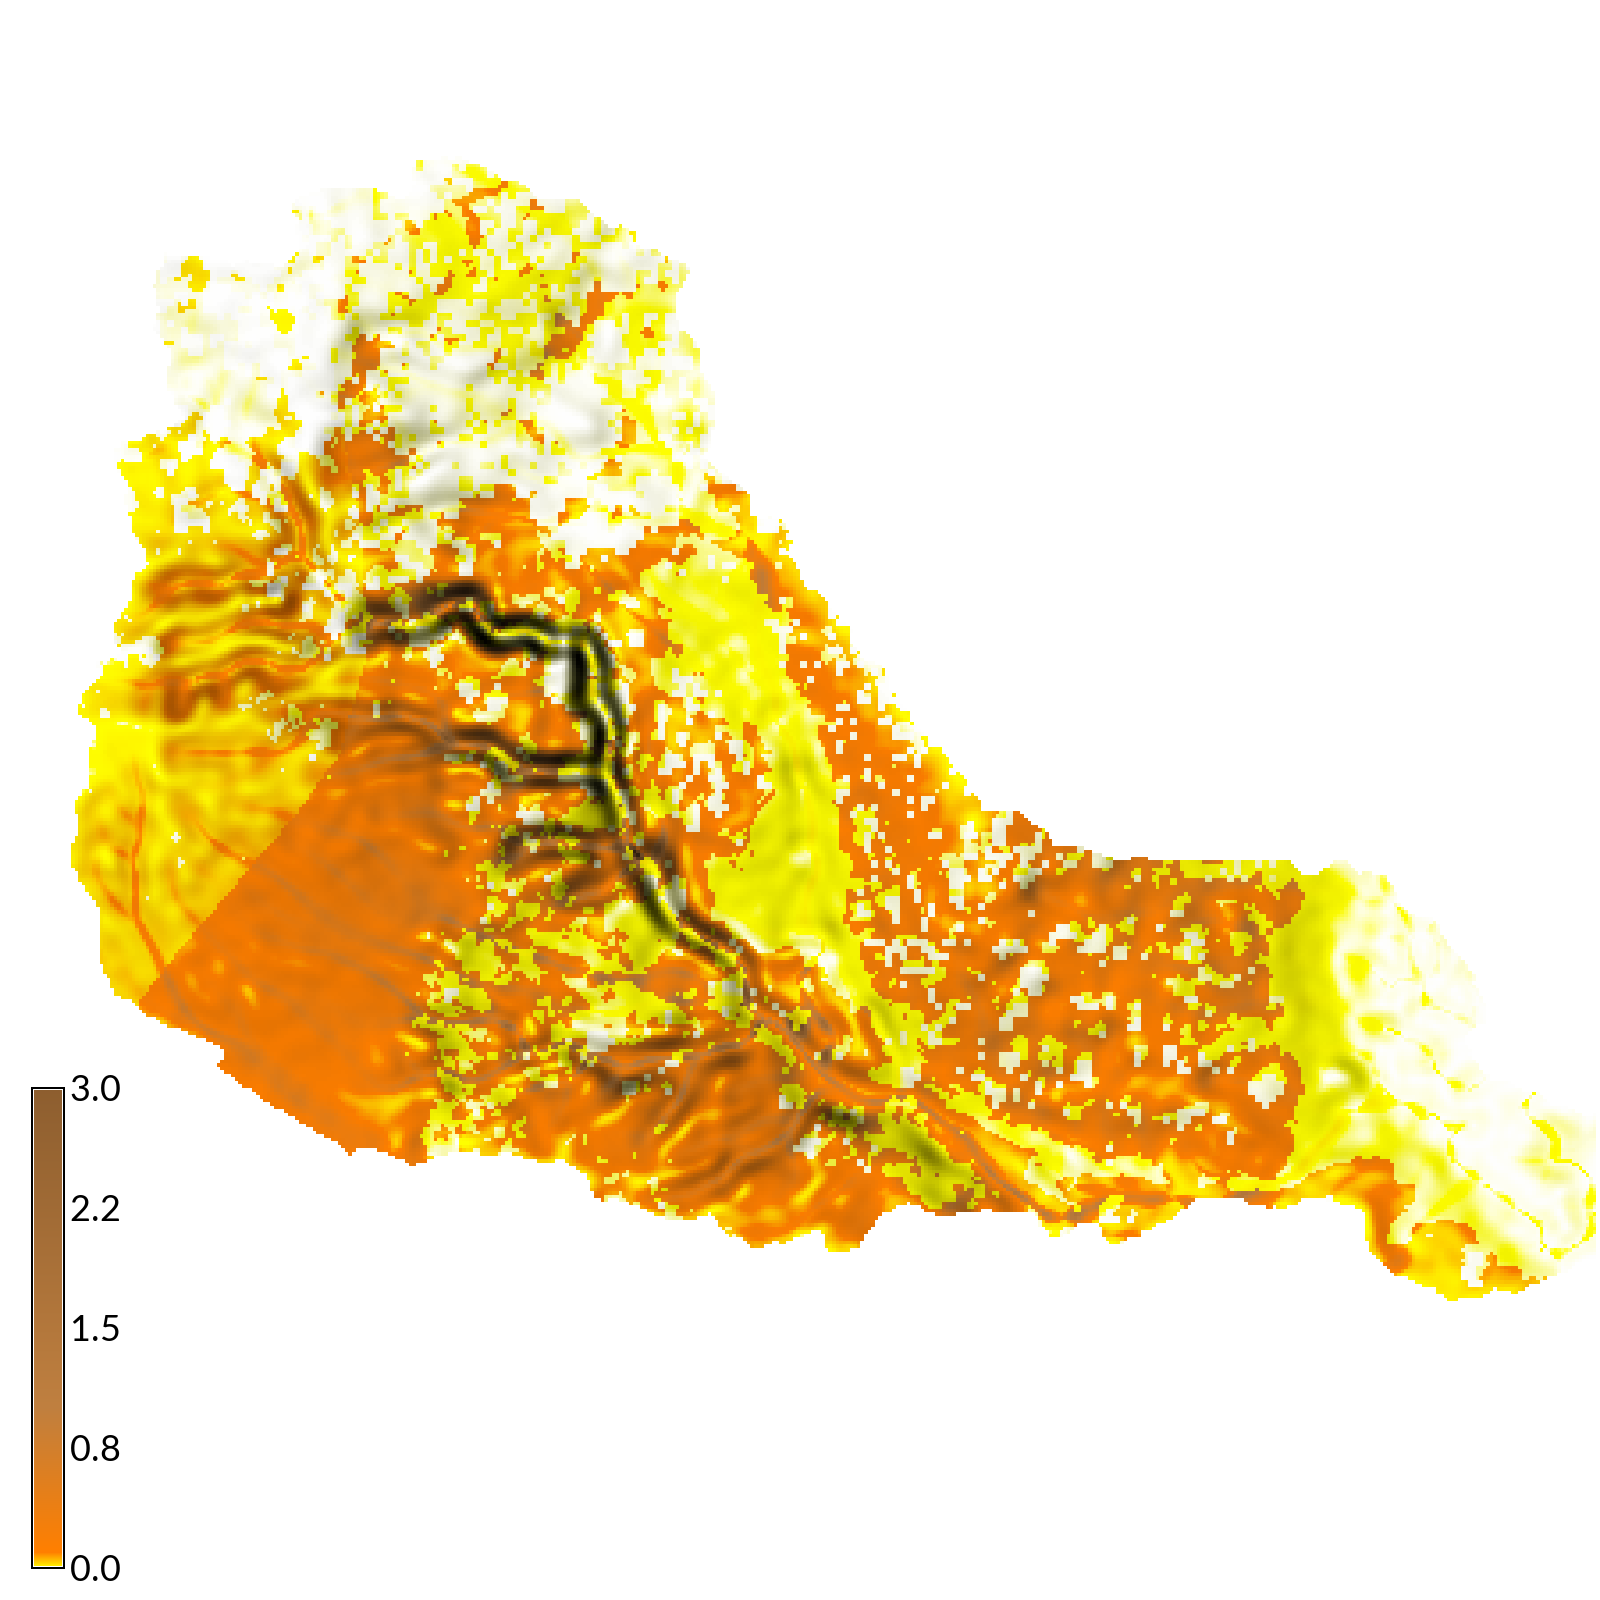
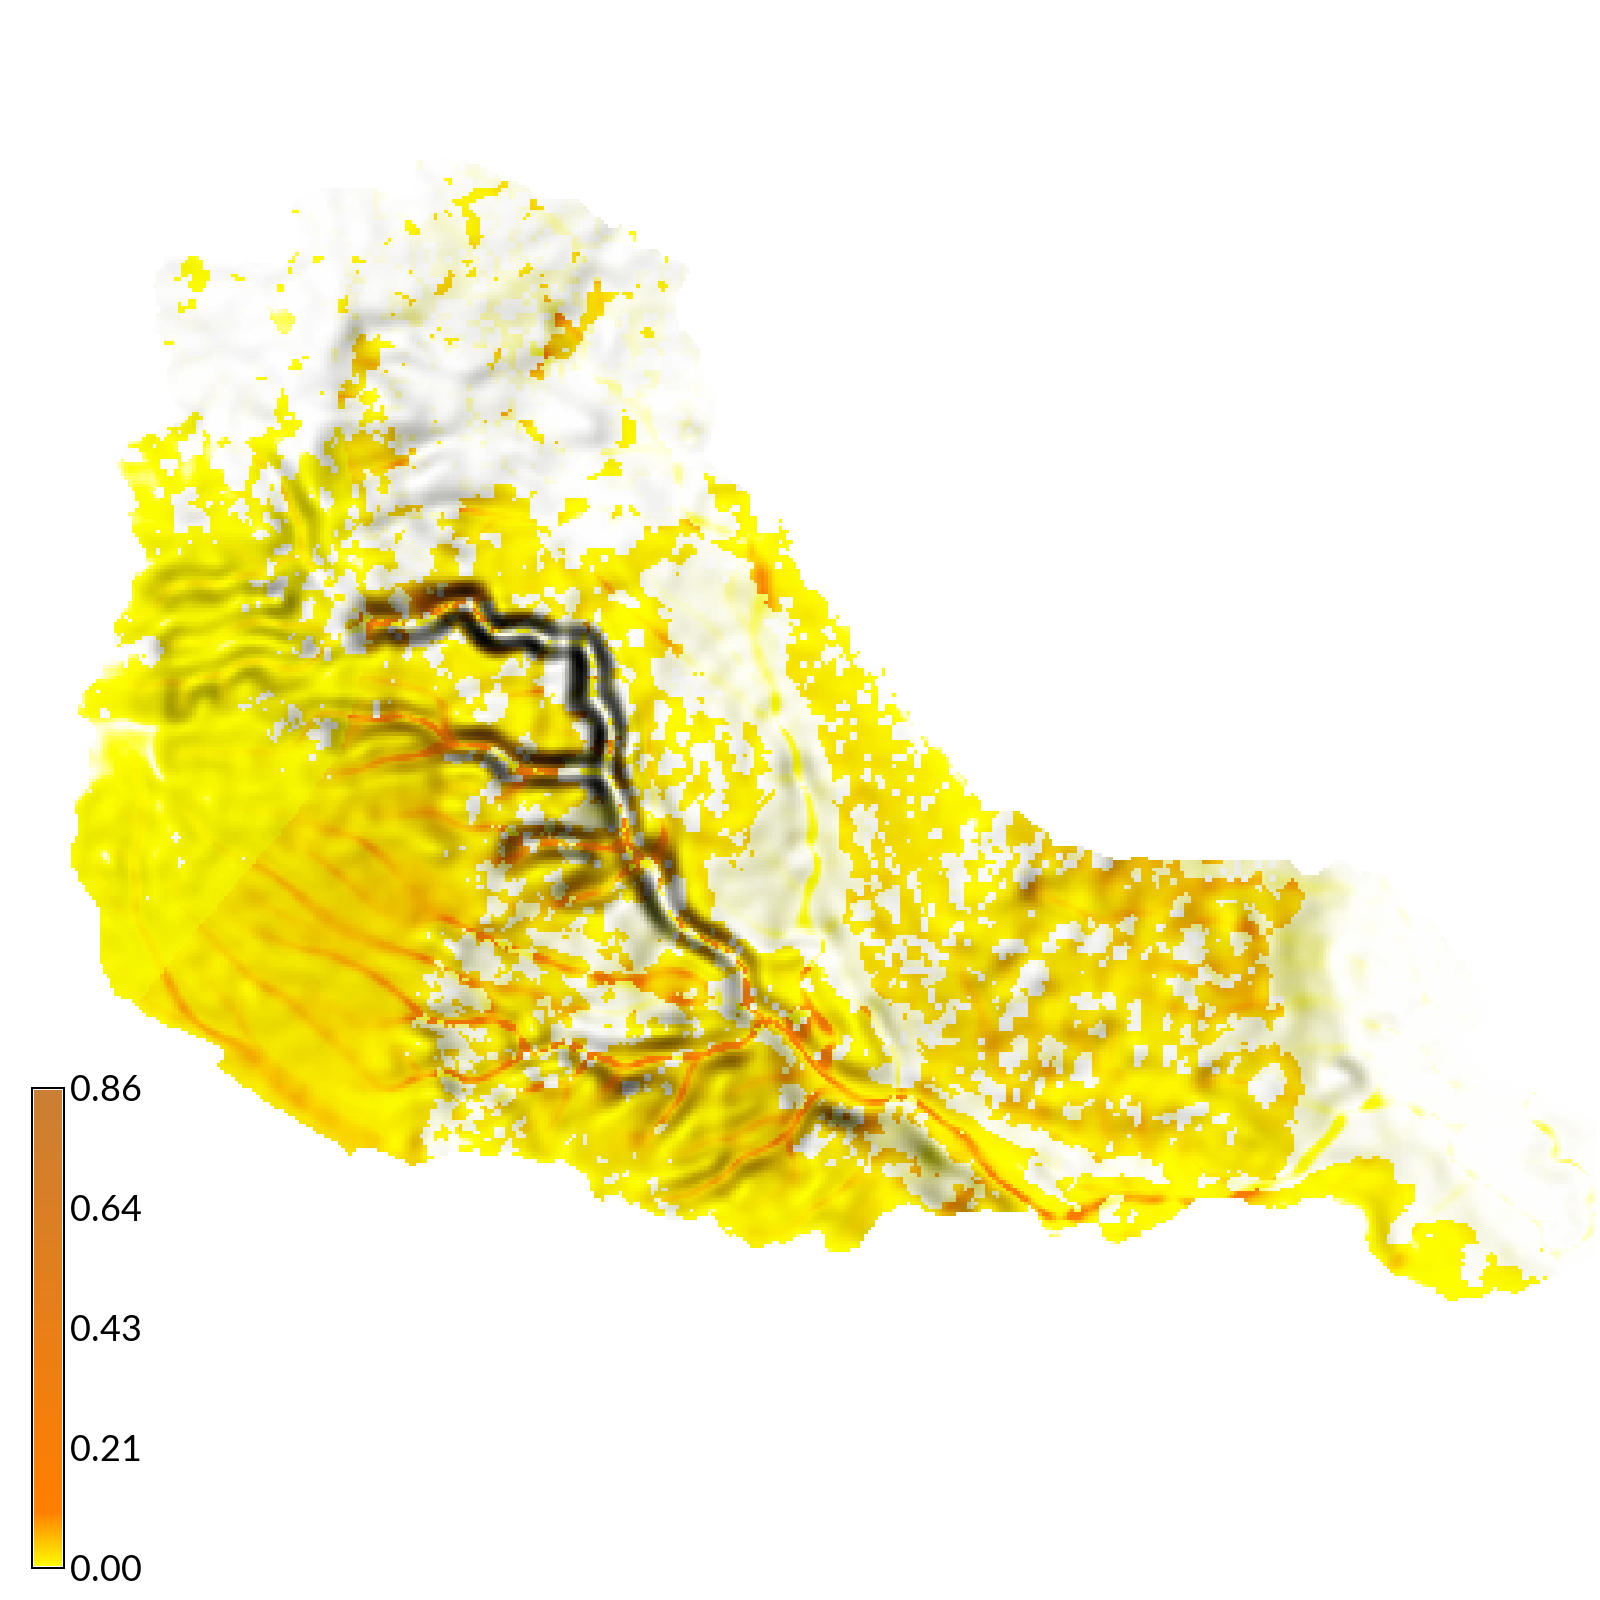
updated code and images

diff --git a/scripts/render_sample_data.py b/scripts/render_sample_data.py
@@ -151,35 +151,79 @@ def render_region_2d():
 
     # compute flow accumulation and erosion with RUSLE3D
     for year in years:
-        gscript.run_command('r.watershed',
-            elevation='elevation_'+str(year),
-            accumulation='flow_accumulation_'+str(year),
-            flags='a',
-            overwrite=overwrite)
+
+        # compute slope
         gscript.run_command('r.slope.aspect',
             elevation='elevation_'+str(year),
             slope='slope_'+str(year),
             overwrite=overwrite)
-        gscript.run_command('r.mapcalc',
+
+        # compute flow accumulation
+        gscript.run_command(
+            'r.watershed',
+            elevation='elevation_'+str(year),
+            accumulation='flowacc',
+            flags="a",
+            overwrite=True)
+        region = gscript.parse_command(
+            'g.region', flags='g')
+        nsres = region['nsres']
+        gscript.run_command(
+            'r.mapcalc',
+            expression="{depth}"
+            "=({flowacc}*{res})".format(
+                depth='flow_accumulation_'+str(year),
+                flowacc='flowacc',
+                res=nsres),
+            overwrite=True)
+
+        # compute dimensionless topographic factor
+        gscript.run_command(
+            'r.mapcalc',
             expression="{ls_factor}"
             "=(0.4+1.0)"
-            "*(({flow_accumulation}/22.1)^0.4)"
+            "*(({flowacc}/22.1)^0.4)"
             "*((sin({slope})/5.14)^1.3)".format(
                 ls_factor='ls_factor_'+str(year),
-                flow_accumulation='flow_accumulation_'+str(year),
+                flowacc='flow_accumulation_'+str(year),
                 slope='slope_'+str(year)),
             overwrite=True)
-        gscript.run_command('r.mapcalc',
-            expression="{flux}"
-            "=310.0"
+
+        # compute sediment flow
+        """E = R * K * LS * C * P
+        where
+        E is average annual soil loss
+        R is erosivity factor
+        K is soil erodibility factor
+        LS is a dimensionless topographic (length-slope) factor
+        C is a dimensionless land cover factor
+        P is a dimensionless prevention measures factor
+        """
+        gscript.run_command(
+            'r.mapcalc',
+            expression="{sedflow}"
+            "={r_factor}"
             "*{k_factor}"
             "*{ls_factor}"
             "*{c_factor}".format(
-                flux='sediment_flow_'+str(year),
+                sedflow='sedflow',
+                r_factor=310.,
                 k_factor='k_factor',
                 ls_factor='ls_factor_'+str(year),
                 c_factor='c_factor'),
             overwrite=True)
+
+        # convert sediment flow from tons/ha to kg/ms
+        gscript.run_command(
+            'r.mapcalc',
+            expression="{converted_sedflow}"
+            "={sedflow}*{ton_to_kg}/{ha_to_m2}".format(
+                converted_sedflow='sediment_flow_'+str(year),
+                sedflow='sedflow',
+                ton_to_kg=1000.,
+                ha_to_m2=10000.),
+            overwrite=True)
+
         # set color tables
         gscript.write_command(
             'r.colors',
@@ -442,9 +486,7 @@ def render_region_2d():
         raster='ls_factor_2012',
         font=font,
         fontsize=fontsize,
-        at=legend_coord,
-        label_values=[0.001,1.8],
-        label_step=0.5)
+        at=legend_coord)
     gscript.run_command('d.mon', stop=driver)
 
     # render sediment flow
@@ -462,8 +504,7 @@ def render_region_2d():
         raster='sediment_flow_2012',
         font=font,
         fontsize=fontsize,
-        at=legend_coord,
-        range='0,3')
+        at=legend_coord)
     gscript.run_command('d.mon', stop=driver)
 
     # render sediment flux
@@ -482,8 +523,6 @@ def render_region_2d():
         font=font,
         fontsize=fontsize,
         at=legend_coord,
-        range='0,1',
-        digits='2',
         flags='n')
     gscript.run_command('d.mon', stop=driver)
 
@@ -503,7 +542,7 @@ def render_region_2d():
         font=font,
         fontsize=fontsize,
         at=legend_coord,
-        range='-0.1,0.1',
+        range='-0.25,0.25',
         digits='2',
         flags='n')
     gscript.run_command('d.mon', stop=driver)
@@ -517,6 +556,8 @@ def render_region_2d():
         type='raster',
         name=['dx'+str(year),
             'dy'+str(year),
+            'flowacc',
+            'sedflow',
             'detachment',
             'transport',
             'shear_stress'],
@@ -728,8 +769,7 @@ def render_subregion_2d():
         raster='sediment_flow_2012',
         font=font,
         fontsize=fontsize,
-        at=legend_coord,
-        range='0,3')
+        at=legend_coord)
     gscript.run_command('d.mon', stop=driver)
 
     # render sediment flux
@@ -748,7 +788,6 @@ def render_subregion_2d():
         font=font,
         fontsize=fontsize,
         at=legend_coord,
-        range='0,1',
         digits='2',
         flags='n')
     gscript.run_command('d.mon', stop=driver)
@@ -769,7 +808,7 @@ def render_subregion_2d():
         font=font,
         fontsize=fontsize,
         at=legend_coord,
-        range='-0.1,0.1',
+        range='-0.25,0.25',
         digits='2',
         flags='n')
     gscript.run_command('d.mon', stop=driver)
@@ -1228,6 +1267,25 @@ def cleanup():
     except CalledModuleError:
         pass
 
+    try:
+        # remove temporary maps
+        gscript.run_command(
+            'g.remove',
+            type='raster',
+            name=['dx_2004',
+                'dx_2012',
+                'dx_2016',
+                'dy_2004',
+                'dy_2012',
+                'dy_2016',
+                'flowacc',
+                'sedflow',
+                'detachment',
+                'transport',
+                'shear_stress'],
+            flags='f')
+    except CalledModuleError:
+        pass
 
 if __name__ == "__main__":
     atexit.register(cleanup)
